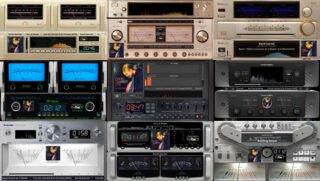
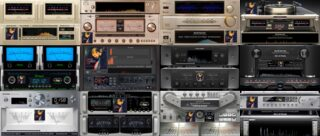
Auto-generate template READMEs and catalog

diff --git a/templates_peppy_spectrum/1920/1080/README.md b/templates_peppy_spectrum/1920/1080/README.md
@@ -217,7 +217,7 @@ Or press Install on the Catalog tab of the Glass Manager.
 
 | Property | Value |
 |----------|-------|
-| Template Pack | Yes (9 templates) |
+| Template Pack | Yes (12 templates) |
 | Meter Type | circular |
 | Extended Config | Yes |
 | Spectrum | Yes |
@@ -228,12 +228,15 @@ Or press Install on the Catalog tab of the Glass Manager.
 - 801G5_Accuphase Mon Touch
 - 802G5_Luxman Touch
 - 803G5_Pioneer Touch
-- 804G5_McIntosh MonoTouch
-- 805G5_Sansui Touch
-- 806G5_Marantz Touch
-- 807G5_Technics_Silver Touch
-- 808G5_Audio Research Touch
-- 809G5_Akai Reverse Touch
+- 804G5_Hellix Touch
+- 805G5_McIntosh MonoTouch
+- 806G5_Sansui Touch
+- 807G5_Marantz Touch
+- 808G5_Marantz Black Touch
+- 809G5_Technics_Silver Touch
+- 810G5_Audio Research Touch
+- 811G5_Akai Reverse Touch
+- 812G5_Burmaster Touch
 
 **Download:** [1920x1080_g5_TouchMetGBS.zip](1920x1080_g5_TouchMetGBS.zip)
 

diff --git a/catalog/1920x1080.md b/catalog/1920x1080.md
@@ -695,17 +695,20 @@ Or press Install on the Catalog tab of the Glass Manager.
 
 ![1920x1080_g5_TouchMetGBS](../templates_peppy_spectrum/1920/1080/previews/1920x1080_g5_TouchMetGBS.png)
 
-**Included Meters (9):**
+**Included Meters (12):**
 
 - 801G5_Accuphase Mon Touch
 - 802G5_Luxman Touch
 - 803G5_Pioneer Touch
-- 804G5_McIntosh MonoTouch
-- 805G5_Sansui Touch
-- 806G5_Marantz Touch
-- 807G5_Technics_Silver Touch
-- 808G5_Audio Research Touch
-- 809G5_Akai Reverse Touch
+- 804G5_Hellix Touch
+- 805G5_McIntosh MonoTouch
+- 806G5_Sansui Touch
+- 807G5_Marantz Touch
+- 808G5_Marantz Black Touch
+- 809G5_Technics_Silver Touch
+- 810G5_Audio Research Touch
+- 811G5_Akai Reverse Touch
+- 812G5_Burmaster Touch
 
 **Download:** [1920x1080_g5_TouchMetGBS.zip](../templates_peppy_spectrum/1920/1080/1920x1080_g5_TouchMetGBS.zip)
 
